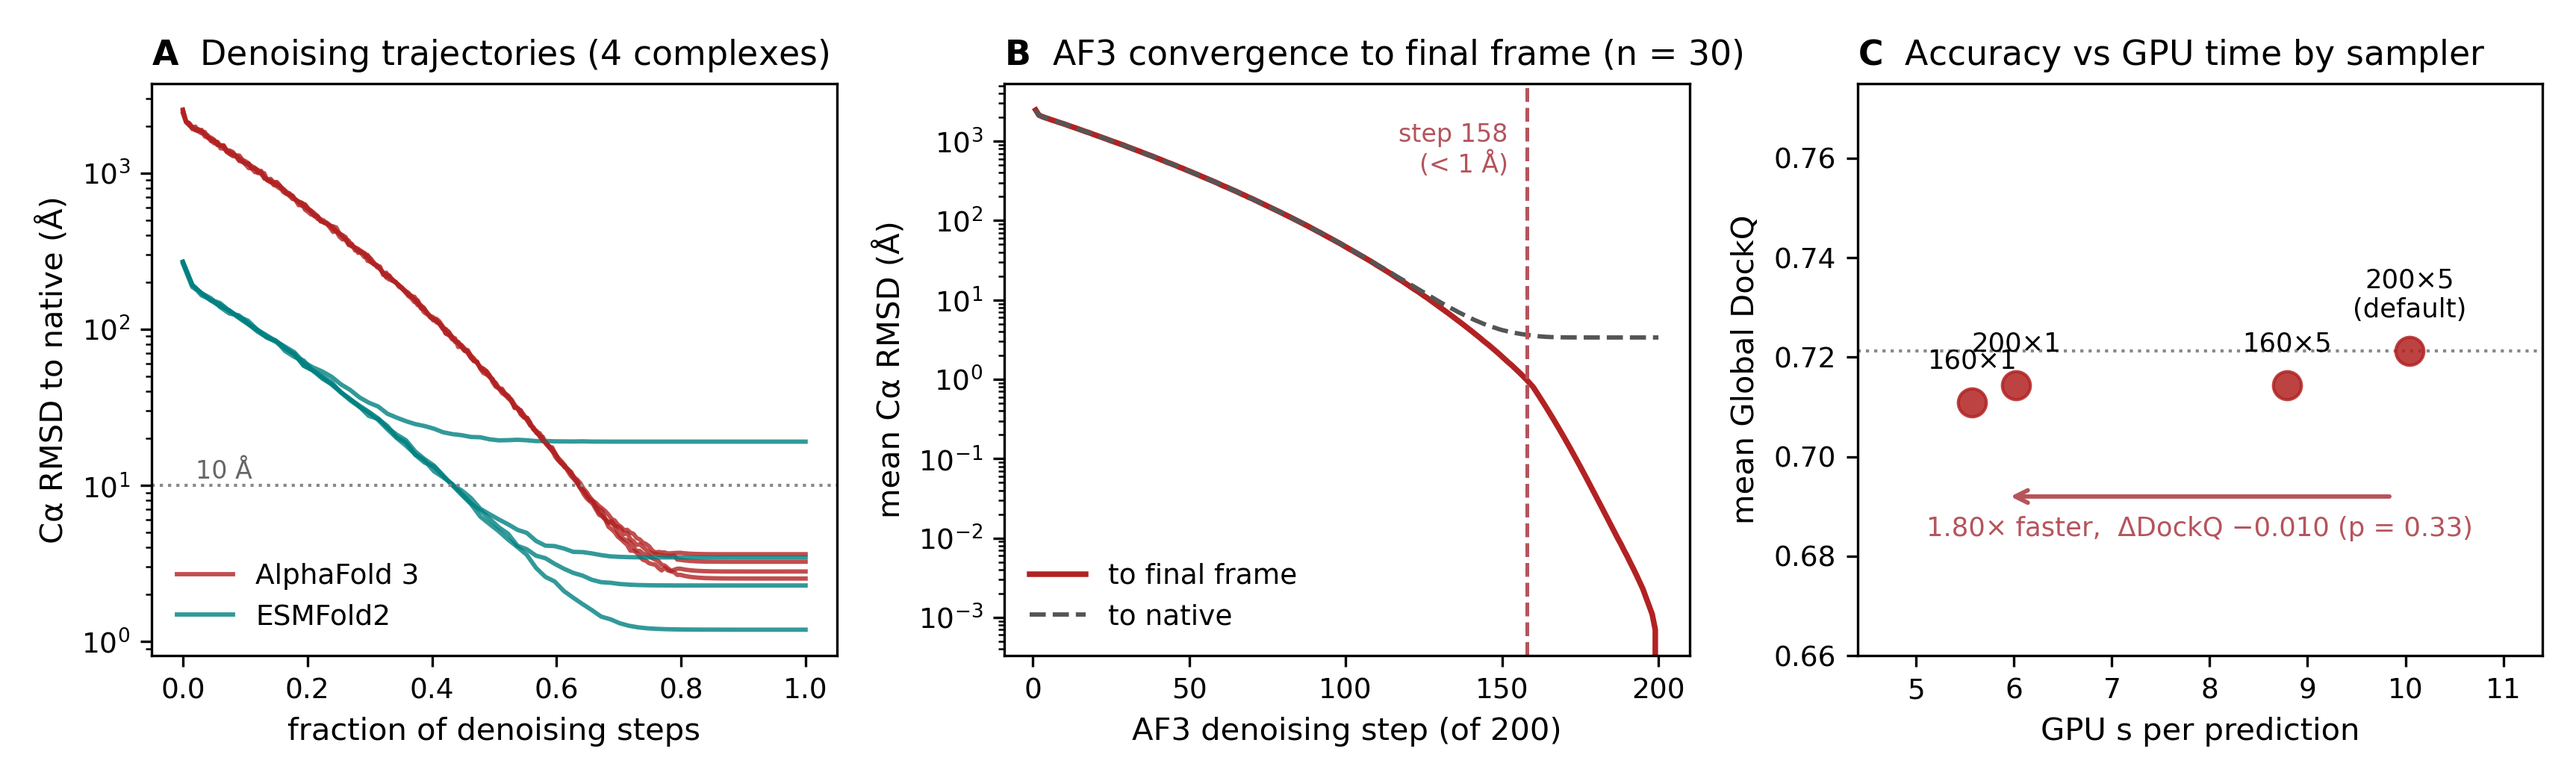
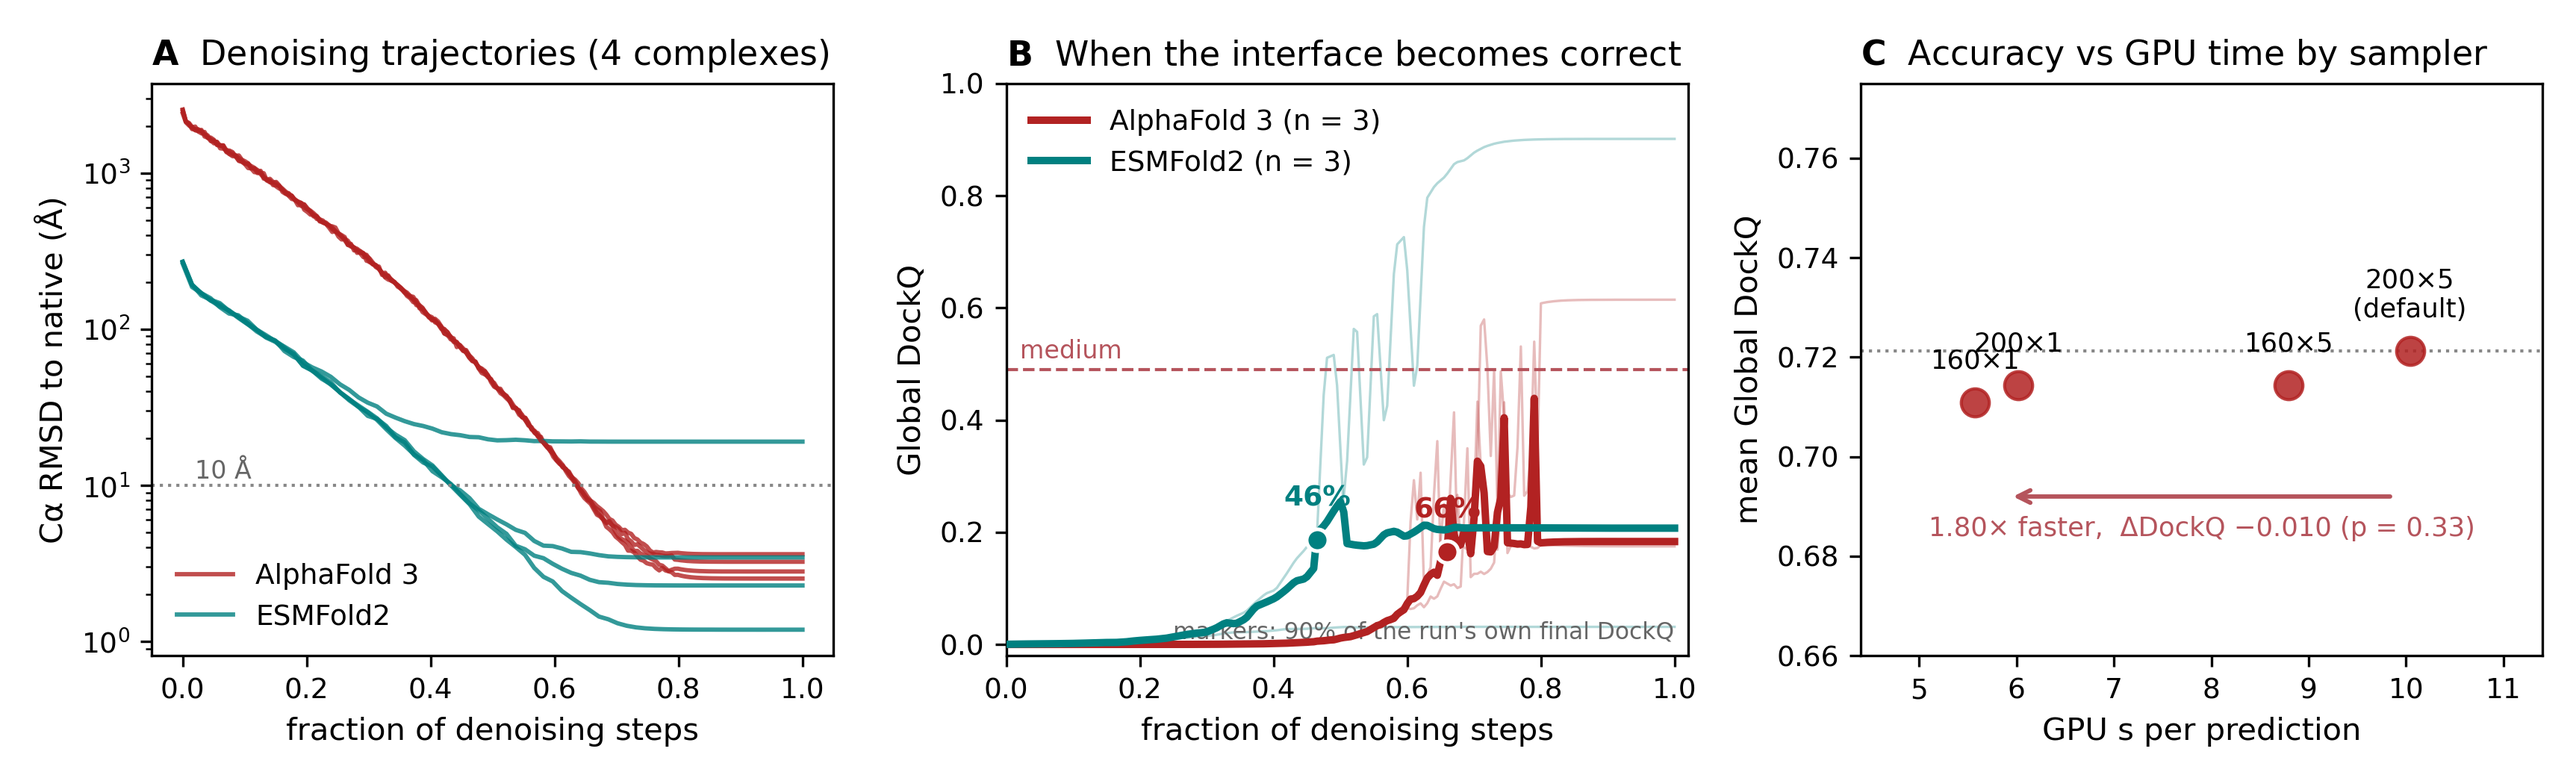
Drop the CDR annotation subsection, fold its definitions into 2.5
The subsection was one paragraph of setup, but the IMGT intervals it gave are
the residue sets every CDR number in the paper is computed over, and CDR2.5 is
a label on Figure 3C that appears nowhere else -- so the content moves into the
first paragraph of the TCR-specific RMSD metrics instead of being deleted.

Methods renumber to 2.1-2.10; both cross-references re-checked against their
new targets. The ANARCI, IMGT and Woods citations stay cited.

Claude-Session: https://claude.ai/code/session_014x8hTP9SfV3XyFT3GDrAfF

diff --git a/paper/benchmark_fresh/main.tex b/paper/benchmark_fresh/main.tex
@@ -339,7 +339,7 @@ was therefore run on class I only, giving 111 predictions.
 
 Mean end-to-end runtimes were 5.2 s per complex for the ESMFold2 API
 (median, IQR 4.9--6.4 s) and 13.4 s per complex for a local AlphaFold 3
-run at default sampler settings on one RTX PRO 6000 (Section 2.10).
+run at default sampler settings on one RTX PRO 6000 (Section 2.9).
 
 \subsection{2.4 Interface accuracy}\label{interface-accuracy}
 
@@ -352,23 +352,18 @@ Standard CAPRI thresholds are used throughout (\textless{} 0.23
 incorrect, 0.23--0.49 acceptable, 0.49--0.80 medium, \ensuremath{\geq} 0.80 high)
 [32,34].
 
-\subsection{2.5 CDR annotation}\label{cdr-annotation}
-
-TCR\ensuremath{\alpha} and TCR\ensuremath{\beta} chains were annotated once per
-biological sequence with ANARCI [35] under IMGT numbering [36],
-and the annotation propagated to prediction and native coordinates
-through pairwise sequence alignment rather than through PDB residue
-numbering. CDR ranges were the inclusive IMGT intervals 27--38 (CDR1),
-56--65 (CDR2), 81--86 (CDR2.5) and 104--118 (CDR3), the same intervals
-used by Woods et al. [37]; ``all CDRs'' means all four regions on both
-chains, eight in total.
-
-\subsection{2.6 TCR-specific RMSD
+\subsection{2.5 TCR-specific RMSD
 metrics}\label{tcr-specific-rmsd-metrics}
 
 Two TCR-specific metrics were computed on the same top-ranked
 predictions the DockQ workflow scores; predictions were never selected
-using a native RMSD. The first, the MHC-aligned weighted all-CDR C\ensuremath{\alpha} RMSD, follows the TCRdock
+using a native RMSD. TCR\ensuremath{\alpha} and TCR\ensuremath{\beta} chains were annotated once per
+biological sequence with ANARCI [35] under IMGT numbering [36], and the
+annotation propagated to prediction and native coordinates by pairwise
+sequence alignment rather than by PDB residue numbering; CDRs are the
+inclusive IMGT intervals 27--38 (CDR1), 56--65 (CDR2), 81--86 (CDR2.5)
+and 104--118 (CDR3) of Woods et al. [37], and ``all CDRs'' means all
+four regions on both chains, eight in total. The first, the MHC-aligned weighted all-CDR C\ensuremath{\alpha} RMSD, follows the TCRdock
 formulation [22,37]. MHC residues are matched between prediction and
 native by sequence alignment; a single ordinary-least-squares Kabsch
 superposition of the class I peptide-binding platform (or, jointly, of
@@ -391,7 +386,7 @@ over the corresponding CDR3 loop without further alignment, comparing
 only identically named atoms in sequence-matched, identity-matched
 residues. C\ensuremath{\alpha}-only versions are retained as quality-control columns.
 
-\subsection{2.7 Superposition-free CDR accuracy
+\subsection{2.6 Superposition-free CDR accuracy
 (lDDT)}\label{superposition-free-cdr-accuracy-lddt}
 
 Both metrics above answer their question through a superposition, and
@@ -417,7 +412,7 @@ docked, and against the CDR's own TCR chain alone, which removes the
 docking and leaves local loop geometry. Whole-chain, peptide, MHC and
 whole-complex lDDT are reported alongside for context.
 
-\subsection{2.8 Metric validation and quality
+\subsection{2.7 Metric validation and quality
 control}\label{metric-validation-and-quality-control}
 
 Every metric reports expected, matched and resolved residue counts, atom
@@ -436,7 +431,7 @@ scored against itself and against a rigidly rotated and translated copy of
 itself, and is unaffected by rigid motion of a group lying outside the
 15~\AA{} inclusion radius.
 
-\subsection{2.9 Confidence and reference-free quality
+\subsection{2.8 Confidence and reference-free quality
 scores}\label{confidence-and-reference-free-quality-scores}
 
 Each method's own interface confidence (ipTM, introduced with
@@ -446,7 +441,7 @@ confidence introduced with AlphaFold 2 [19], was read from the B-factor column o
 scored, averaged over a residue's non-hydrogen atoms and then over a
 region; all four methods write it on the 0--100 scale here, and anything
 reported in [0, 1] is rescaled. Confidence is therefore compared with
-accuracy residue-for-residue over exactly the residue sets of Section 2.7,
+accuracy residue-for-residue over exactly the residue sets of Section 2.6,
 and the calibration error reported is the mean of pLDDT − lDDT over
 complexes. pDockQ [40] was computed
 per interface from the predicted structure and per-residue confidence,
@@ -456,7 +451,7 @@ benchmark's chain convention and scored on all 126 complexes; the subset
 of class I targets whose PDB identifiers do not appear in its training
 set (n = 27) is reported separately throughout.
 
-\subsection{2.10 Sampler instrumentation and
+\subsection{2.9 Sampler instrumentation and
 timing}\label{sampler-instrumentation-and-timing}
 
 Both models' official samplers were patched observationally to retain
@@ -481,7 +476,7 @@ warm-up predictions run and discarded before timing. Instrumentation
 costs \textasciitilde2\% and was run as a separate pass, so the baseline
 track is stock AlphaFold 3.
 
-\subsection{2.11 Statistics and software}\label{statistics-and-software}
+\subsection{2.10 Statistics and software}\label{statistics-and-software}
 
 Paired method comparisons use the Wilcoxon signed-rank test on the
 complexes both methods predicted. Correlations are Pearson and Spearman

diff --git a/paper/figures/scripts/4.py b/paper/figures/scripts/4.py
@@ -2,7 +2,7 @@
 
 A  Ca RMSD to the native along the denoising trajectory, AF3 (200 steps) vs ESMFold2 (68),
    on the four complexes traced by layer_probe_trajectories/.
-B  AF3 convergence to its own final frame, 30 complexes x 5 samples (overnight/).
+B  Global DockQ along the same trajectories: when each sampler's interface becomes correct.
 C  Wall-clock vs accuracy for the four sampler tracks (overnight/results/summary.csv).
 """
 import glob, os
@@ -36,19 +36,35 @@ a.legend(frameon=False, loc="lower left")
 a.axhline(10, ls=":", lw=1, c="#888")
 a.text(.02, 11, "10 Å", fontsize=8, color="#666")
 
-# B -- AF3 convergence to its own final frame
+# B -- when the interface becomes correct, both samplers
 b = ax[1]
-t = pd.read_csv(f"{BASE}/overnight/results/traj_rmsd_mean.csv")
-b.plot(t.step, t.ca_rmsd_to_final_mean, color=BASE_COLORS["AF3"], lw=1.8, label="to final frame")
-b.fill_between(t.step, t.ca_rmsd_to_final_median, t.ca_rmsd_to_final_p90,
-               color=BASE_COLORS["AF3"], alpha=.2)
-b.plot(t.step, t.ca_rmsd_to_native_mean, color="#555", lw=1.4, ls="--", label="to native")
-b.set_yscale("log"); b.set_xlabel("AF3 denoising step (of 200)")
-b.set_ylabel("mean Cα RMSD (Å)")
-b.axvline(158, ls="--", lw=1.2, c="#b5545c")
-b.text(152, 400, "step 158\n(< 1 Å)", fontsize=8, color="#b5545c", ha="right")
-b.set_title(r"$\bf{B}$  AF3 convergence to final frame (n = 30)", loc="left")
-b.legend(frameon=False, loc="lower left")
+GRID = np.linspace(0, 1, 201)
+frames = {}
+for f in sorted(glob.glob(f"{BASE}/layer_probe_trajectories/outputs/*/*/*_diffusion_frames.csv")):
+    d = pd.read_csv(f)
+    if "global_dockq" not in d or d.global_dockq.isna().all():
+        continue                      # 7SG2 has no per-frame DockQ
+    frames.setdefault(d.model.iloc[0], []).append(
+        d.dropna(subset=["global_dockq"]).sort_values("normalized_progress"))
+for m, runs in frames.items():
+    curves = np.vstack([np.interp(GRID, d.normalized_progress, d.global_dockq) for d in runs])
+    for c in curves:                                   # individual complexes, as texture
+        b.plot(GRID, c, color=COL[m], lw=.8, alpha=.3, zorder=2)
+    med = np.median(curves, axis=0)
+    b.plot(GRID, med, color=COL[m], lw=2.4, zorder=4, label=f"{NAME[m]} (n = {len(runs)})")
+    fin = med[-1]
+    x = GRID[np.argmax(med >= .9 * fin)]               # median crossing of 90% of final
+    b.plot([x], [.9 * fin], "o", color=COL[m], ms=7, mec="white", mew=1.2, zorder=6)
+    b.annotate(f"{x*100:.0f}%", (x, .9 * fin), textcoords="offset points",
+               xytext=(0, 11), ha="center", fontsize=9, color=COL[m], fontweight="bold")
+b.axhline(0.49, ls="--", lw=1, c="#b5545c")
+b.text(.02, .51, "medium", fontsize=8, color="#b5545c")
+b.set_xlabel("fraction of denoising steps"); b.set_ylabel("Global DockQ")
+b.set_ylim(-0.02, 1.0); b.set_xlim(0, 1.02)
+b.set_title(r"$\bf{B}$  When the interface becomes correct", loc="left")
+b.legend(frameon=False, loc="upper left")
+b.text(.98, .03, "markers: 90% of the run's own final DockQ",
+       transform=b.transAxes, ha="right", fontsize=7.5, color="#666")
 
 # C -- time vs accuracy for the four tracks
 c = ax[2]
